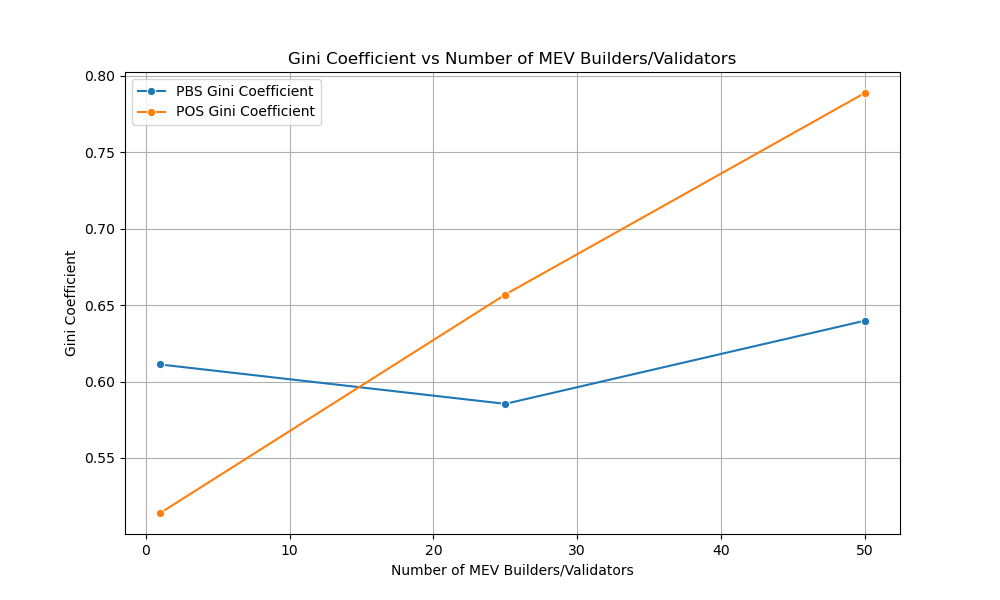
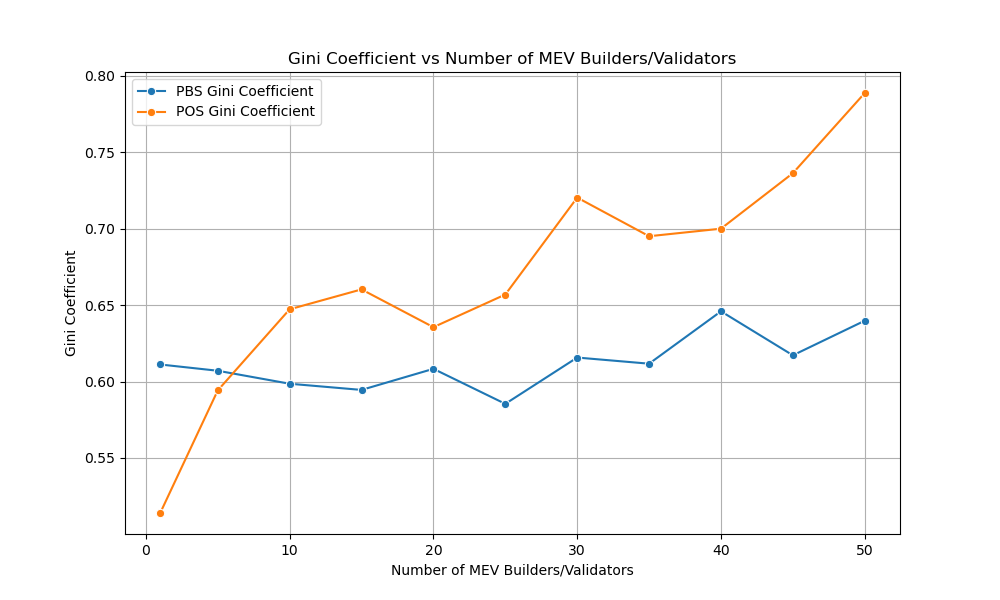
update

diff --git a/plots/new/gini-reward.py b/plots/new/gini-reward.py
@@ -21,14 +21,17 @@ def load_profits(data_dir, mev_counts):
         pbs_dir = os.path.join(data_dir, f'pbs/mev{mev_count}/transaction_data_pbs.csv')
         pos_dir = os.path.join(data_dir, f'pos/mev{mev_count}/transaction_data_pos.csv')
 
-        pbs_df = pd.read_csv(pbs_dir)
-        pos_df = pd.read_csv(pos_dir)
+        if os.path.exists(pbs_dir) and os.path.exists(pos_dir):
+            pbs_df = pd.read_csv(pbs_dir)
+            pos_df = pd.read_csv(pos_dir)
 
-        pbs_profits = pbs_df.groupby('creator_id')['fee'].sum().values
-        pos_profits = pos_df.groupby('creator_id')['fee'].sum().values
+            pbs_profits = pbs_df.groupby('creator_id')['fee'].sum().values
+            pos_profits = pos_df.groupby('creator_id')['fee'].sum().values
 
-        profits['pbs'][mev_count] = pbs_profits
-        profits['pos'][mev_count] = pos_profits
+            profits['pbs'][mev_count] = pbs_profits
+            profits['pos'][mev_count] = pos_profits
+        else:
+            print(f"Files for MEV count {mev_count} not found. Skipping...")
 
     return profits
 
@@ -36,7 +39,7 @@ def load_profits(data_dir, mev_counts):
 data_dir = 'data/vary_mev'
 
 # Set the MEV builder counts to analyze
-mev_counts = [1, 25, 50]
+mev_counts = [1, 5, 10, 15, 20, 25, 30, 35, 40, 45, 50]
 
 # Load the profits data
 profits = load_profits(data_dir, mev_counts)
@@ -45,22 +48,26 @@ profits = load_profits(data_dir, mev_counts)
 gini_coefficients = {'pbs': {}, 'pos': {}}
 for system in ['pbs', 'pos']:
     for mev_count in mev_counts:
-        gini_coefficients[system][mev_count] = compute_gini(profits[system][mev_count])
-def plot_profit_distribution(profits, mev_counts, save_dir):
+        if mev_count in profits[system]:
+            gini_coefficients[system][mev_count] = compute_gini(profits[system][mev_count])
+
+def plot_profit_distribution(profits, selected_mev_counts, save_dir):
     fig, axes = plt.subplots(2, 3, figsize=(18, 12))
     fig.suptitle('Profit Distribution for Different MEV Builders')
 
-    for i, mev_count in enumerate(mev_counts):
+    for i, mev_count in enumerate(selected_mev_counts):
         # Plot PBS profit distribution
         ax = axes[0, i]
-        sns.histplot(profits['pbs'][mev_count], bins=20, kde=True, color='blue', ax=ax)
+        if mev_count in profits['pbs']:
+            sns.histplot(profits['pbs'][mev_count], bins=20, kde=True, color='blue', ax=ax)
         ax.set_title(f'PBS Profit Distribution (MEV = {mev_count})')
         ax.set_xlabel('Profit')
         ax.set_ylabel('Frequency')
 
         # Plot PoS profit distribution
         ax = axes[1, i]
-        sns.histplot(profits['pos'][mev_count], bins=20, kde=True, color='green', ax=ax)
+        if mev_count in profits['pos']:
+            sns.histplot(profits['pos'][mev_count], bins=20, kde=True, color='green', ax=ax)
         ax.set_title(f'PoS Profit Distribution (MEV = {mev_count})')
         ax.set_xlabel('Profit')
         ax.set_ylabel('Frequency')
@@ -74,7 +81,7 @@ def plot_gini_coefficients(gini_coefficients, mev_counts, save_dir):
     fig, ax = plt.subplots(figsize=(10, 6))
 
     for system in systems:
-        gini_values = [gini_coefficients[system][mev_count] for mev_count in mev_counts]
+        gini_values = [gini_coefficients[system].get(mev_count, np.nan) for mev_count in mev_counts]
         sns.lineplot(x=mev_counts, y=gini_values, marker='o', label=f'{system.upper()} Gini Coefficient', ax=ax)
 
     ax.set_title('Gini Coefficient vs Number of MEV Builders/Validators')
@@ -89,8 +96,9 @@ def plot_gini_coefficients(gini_coefficients, mev_counts, save_dir):
 save_dir = 'figures/new'
 os.makedirs(save_dir, exist_ok=True)
 
-# Plot profit distributions
-plot_profit_distribution(profits, mev_counts, save_dir)
+# Plot profit distributions for selected MEV builder counts
+selected_mev_counts = [1, 25, 50]
+plot_profit_distribution(profits, selected_mev_counts, save_dir)
 
-# Plot Gini coefficients
+# Plot Gini coefficients for all MEV builder counts
 plot_gini_coefficients(gini_coefficients, mev_counts, save_dir)
